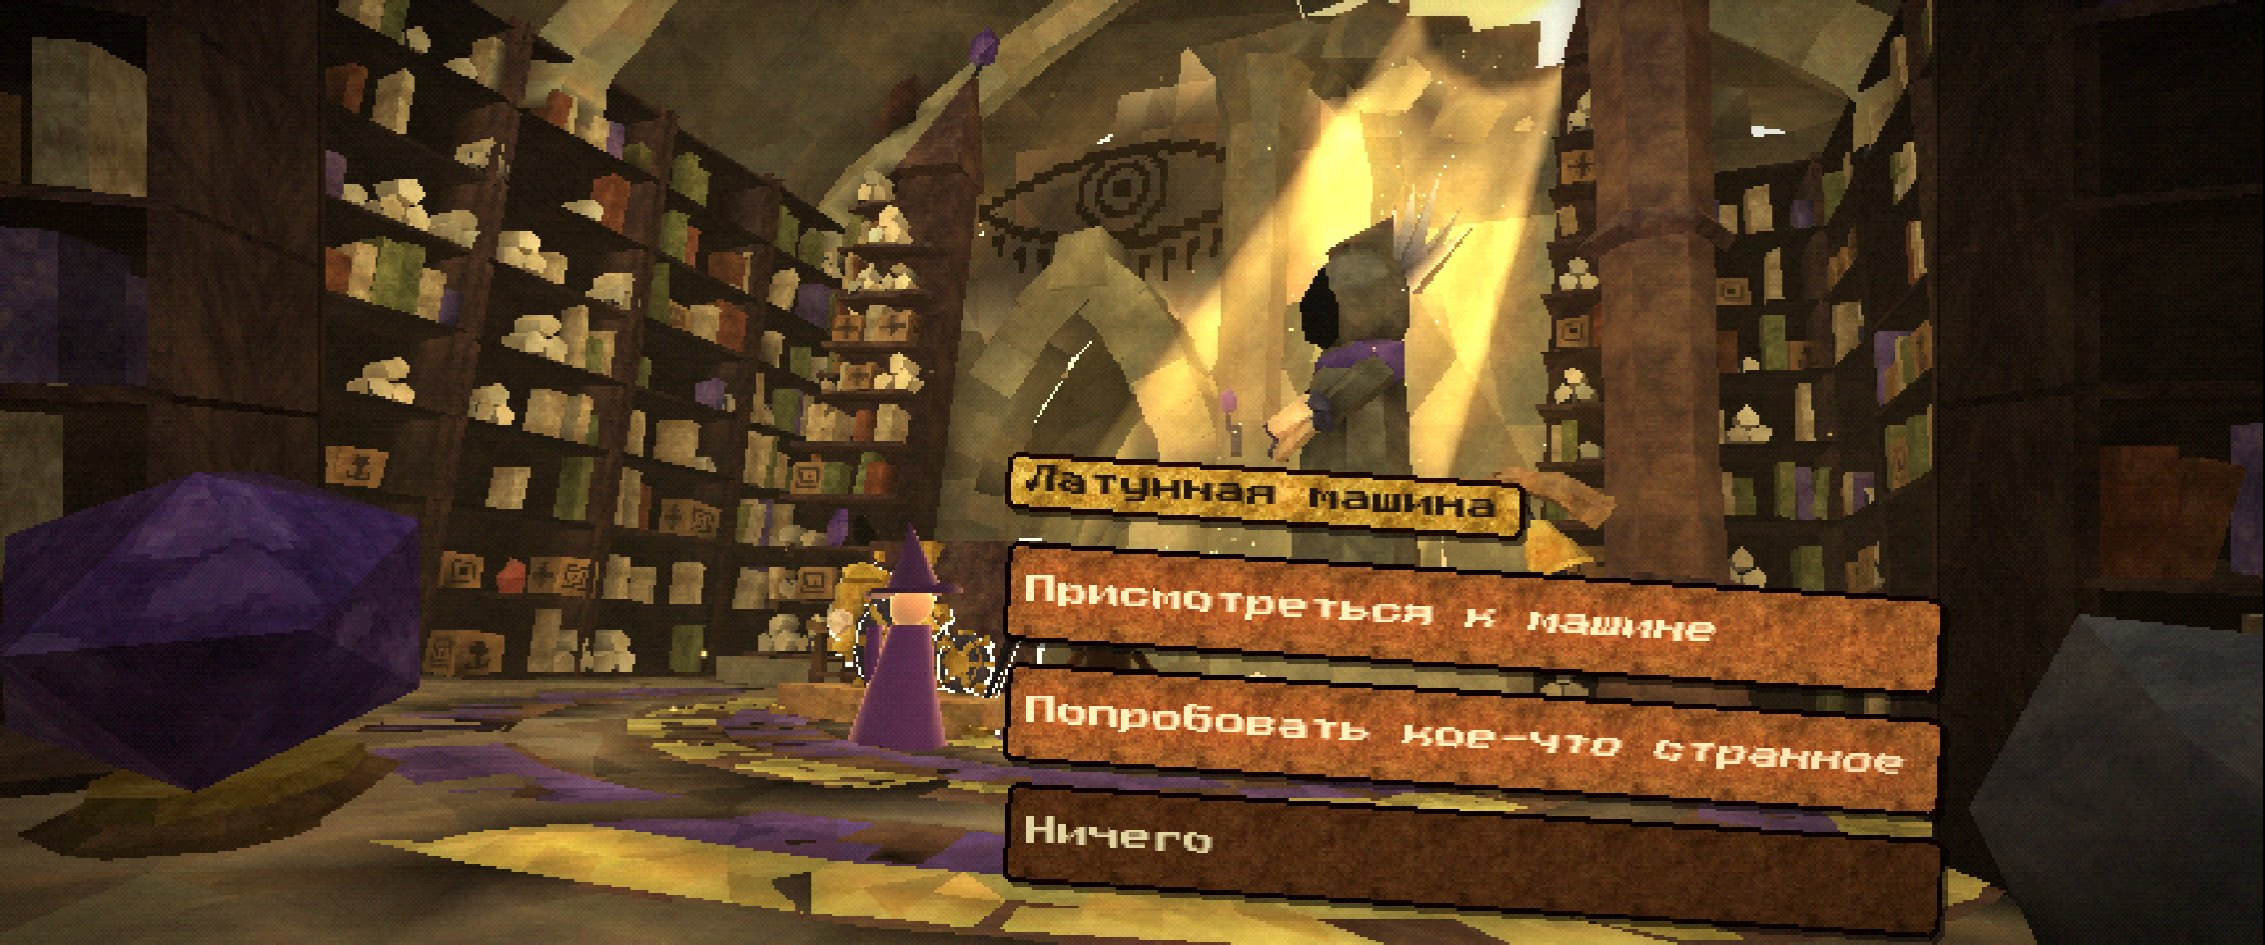
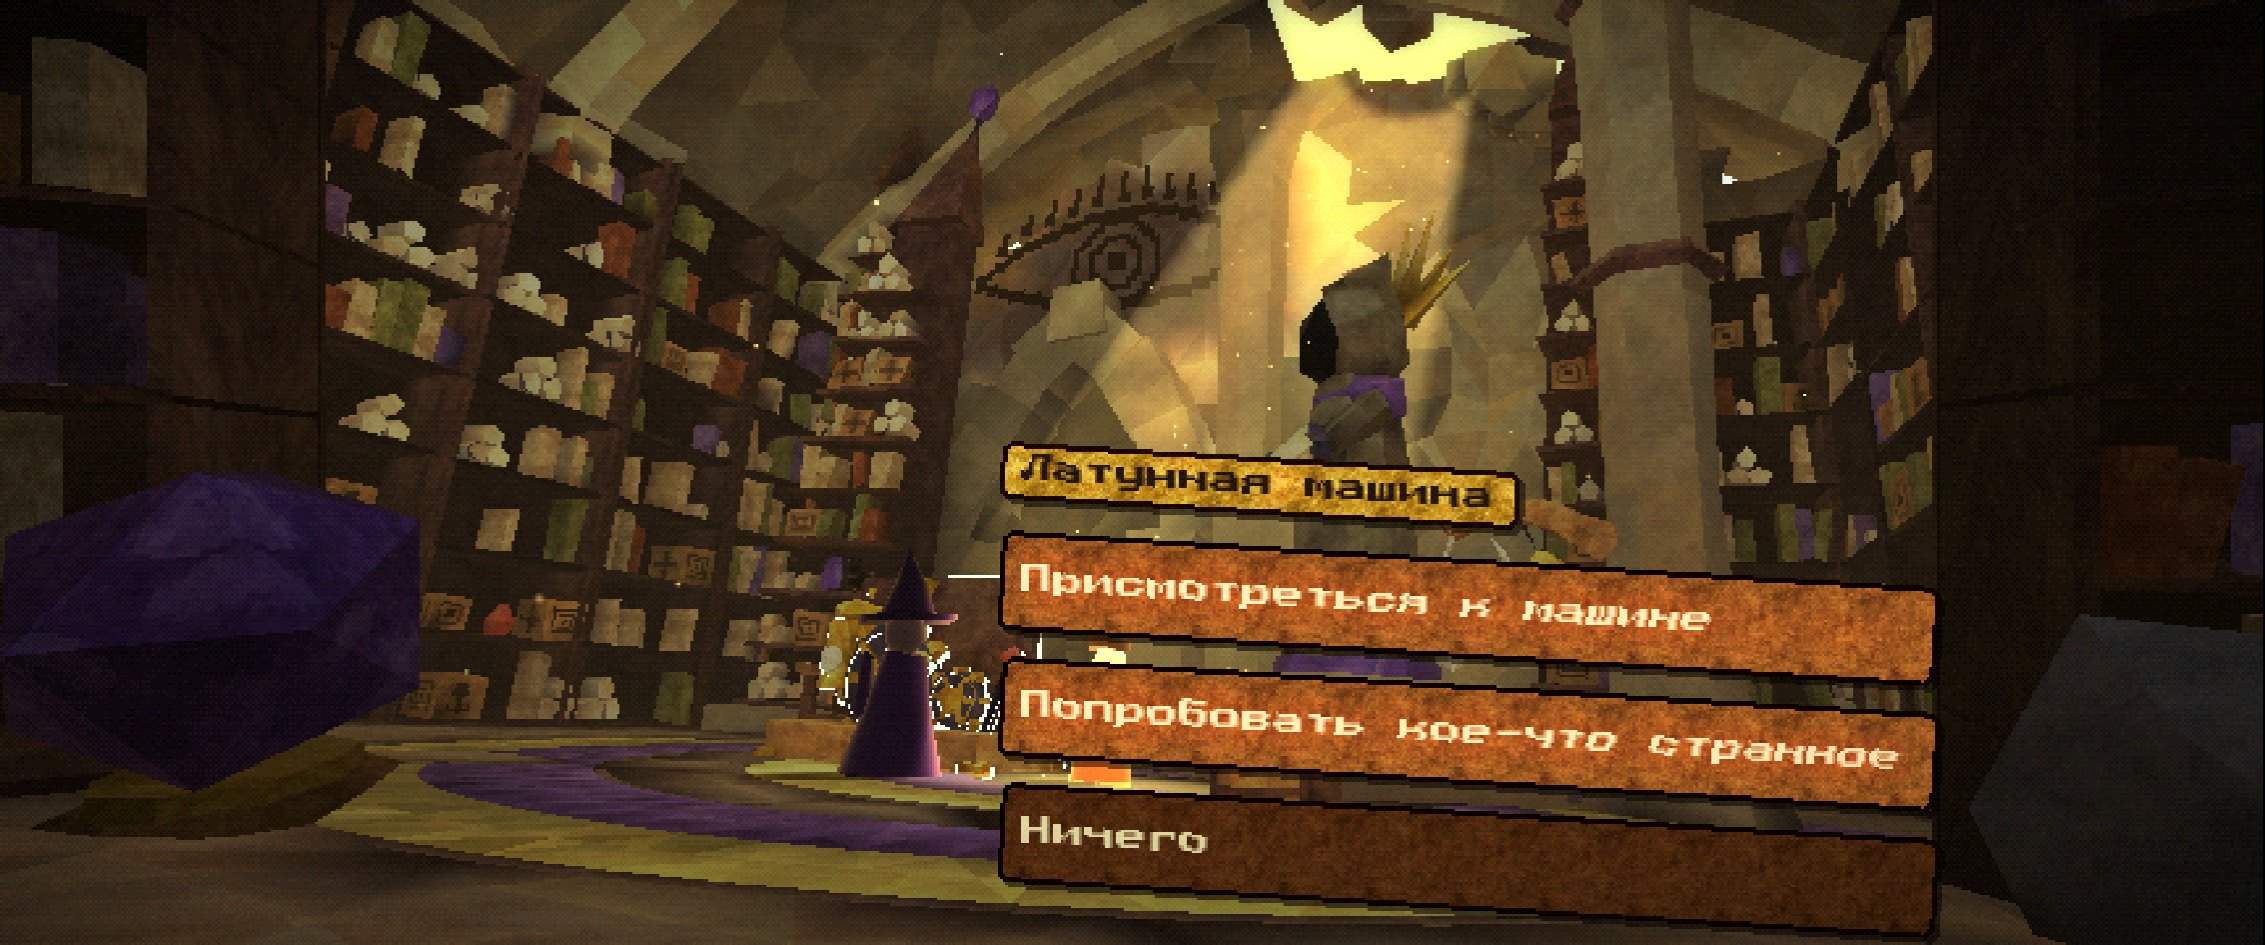
Round 8 verdict, phone frames from the final build, tap fixed for the title tag
The touch run on the final build: tap the machine, the plaques open, a tap
on the first option plays the close-up and the line. The script's option tap
moved up a little because the title is now a small tag above the stack.
Round 8's blind verdict (NO: no depth behind the arch) is in the log.

Claude-Session: https://claude.ai/code/session_01Nwz6taqPZGpLgRq9ypQHFT

diff --git a/tools/visual_gauntlet/mobile_web.py b/tools/visual_gauntlet/mobile_web.py
@@ -74,7 +74,7 @@ async def main():
         await page.wait_for_timeout(4000)
         await page.screenshot(path=os.path.join(out, "03_options.png"))
         # choose the second plaque by touch
-        await page.touchscreen.tap(vp["width"] * 0.70, vp["height"] * 0.68)
+        await page.touchscreen.tap(vp["width"] * 0.70, vp["height"] * 0.645)
         await page.wait_for_timeout(5000)
         await page.screenshot(path=os.path.join(out, "04_after_choice.png"))
         with open(os.path.join(out, "console.txt"), "w") as f:
